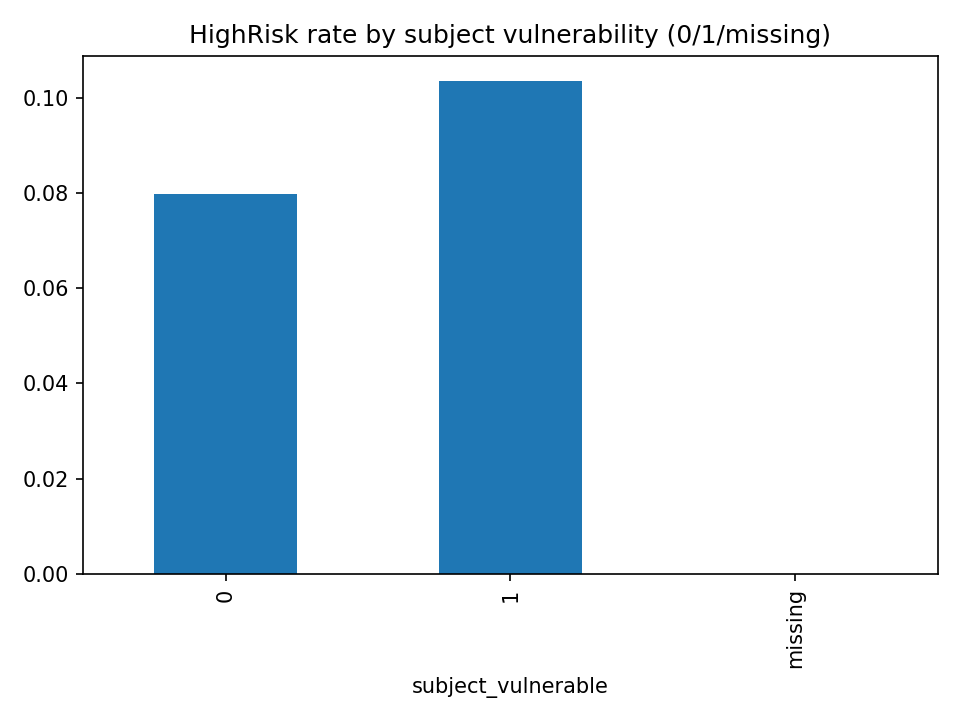
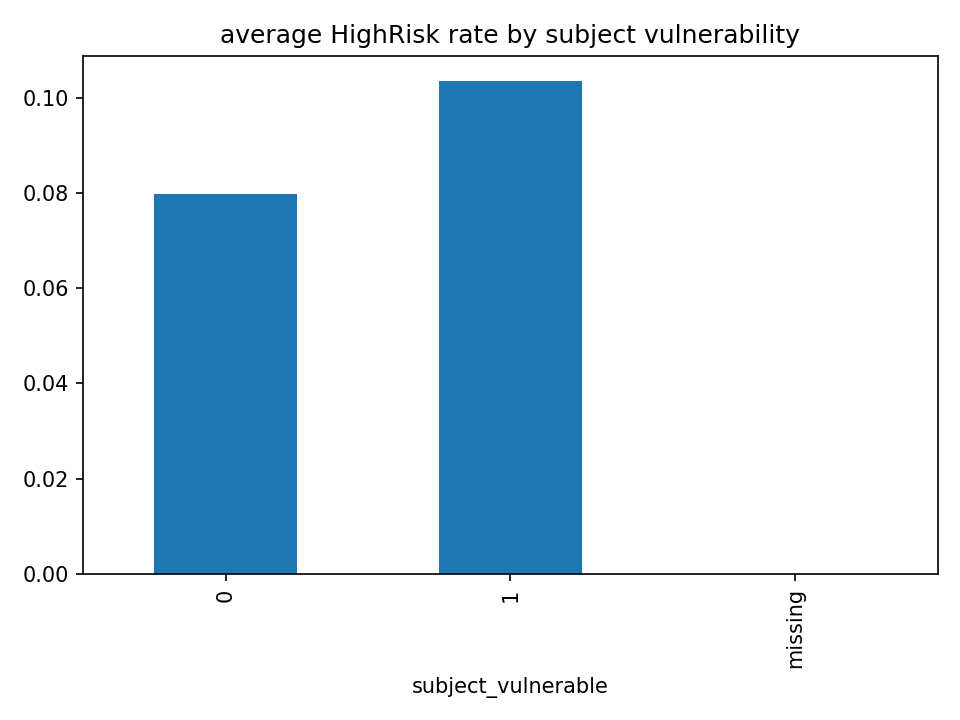
Update: app, pipeline, pyproject

Changed region(s): [[0.1875, 0.0306, 0.875, 0.0611]]

diff --git a/src/eda.py b/src/eda.py
@@ -1,9 +1,8 @@
-# eda_simpler_plots.py
 from pathlib import Path
 import numpy as np
 import pandas as pd
 import matplotlib
-matplotlib.use("Agg")  # s for non-GUI environments
+matplotlib.use("Agg")  #
 import matplotlib.pyplot as plt
 
 
@@ -25,7 +24,7 @@ def map_highrisk_to_binary(target_series):
 
 
 def save_bar(series_or_frame, title, out_path):
-    """Save a very basic bar chart."""
+    """ saving  bar charts"""
     plt.figure()
     series_or_frame.plot(kind="bar")
     plt.title(title)
@@ -36,7 +35,7 @@ def save_bar(series_or_frame, title, out_path):
 
 def run_eda_simpler(dataframe, output_directory = "eda_simple_plots"):
     """
-    Saves PNGs to output_directory and returns the absolute folder path.
+    saves pngs to output_directory and returns the absolute folder path.
     """
     output_path = Path(output_directory)
     output_path.mkdir(parents=True, exist_ok=True)
@@ -96,7 +95,7 @@ def run_eda_simpler(dataframe, output_directory = "eda_simple_plots"):
         ax.set_ylim(0, 1)
         
         plt.tight_layout()
-        plt.savefig(output_path / "02_rate_by_year.png", dpi=150)
+        plt.savefig(output_path / "02HighRisk_rate_by_year.png", dpi=150)
         plt.close()
 
 
@@ -118,11 +117,11 @@ def run_eda_simpler(dataframe, output_directory = "eda_simple_plots"):
         )
         save_bar(
             rate_by_vuln,
-            "HighRisk rate by subject vulnerability (0/1/missing)",
+            "average HighRisk rate by subject vulnerability",
             output_path / "04_rate_by_subject_vulnerability.png"
         )
         
-    # HighRisk by police_force
+    # average HighRisk rate by police_force
     if "police_force" in dataframe.columns:
         force = dataframe["police_force"].astype(str)
         force = force.fillna("missing")
@@ -135,7 +134,7 @@ def run_eda_simpler(dataframe, output_directory = "eda_simple_plots"):
             .mean()
             .reindex(top_forces)
         )
-        save_bar(rate_by_force, "HighRisk rate by police_force (top 10 by volume)",
+        save_bar(rate_by_force, "mean HighRisk rate by police_force (top 10 police forces)",
                  output_path / "05_rate_by_force_top10.png")
 
 
@@ -146,7 +145,7 @@ def run_eda_simpler(dataframe, output_directory = "eda_simple_plots"):
         top_ethnicities = ethnicity.value_counts().head(10).index
         mask = ethnicity.isin(top_ethnicities)
         
-        # Calculate counts instead of rates
+        # calculate counts instead of rates
         count_by_ethnicity = (
             pd.Series(target_binary[mask].values, index=ethnicity[mask])
             .groupby(level=0)
@@ -188,7 +187,7 @@ def run_eda_simpler(dataframe, output_directory = "eda_simple_plots"):
             .mean()
             .reindex(top_ages)
         )
-        save_bar(rate_by_age, "HighRisk rate by age (top 5)",
+        save_bar(rate_by_age, "HighRisk rate by age (top 10)",
                  output_path / "07_rate_by_age_top5.png")
 
     #  4) HighRisk rate by police_force (top 10 by volume)
@@ -212,7 +211,7 @@ def run_eda_simpler(dataframe, output_directory = "eda_simple_plots"):
     if "police_force" in dataframe.columns:
         # Getting the top 5 police forces
         top_forces_counts = dataframe["police_force"].astype(str).value_counts().head(5)
-        # 6) Top 5 police forces by incident count
+        # Top 5 police forces by incident count
         save_bar(top_forces_counts, "top 5 police forces by incident count",
                  output_path / "09_forces_counts.png")
         
@@ -255,7 +254,7 @@ def run_eda_simpler(dataframe, output_directory = "eda_simple_plots"):
     
     
         # 14) HighRisk rate by gender
-    # 14) HighRisk rate by gender
+    # 14) HighRisk count by gender
     if "person_perceived_gender" in dataframe.columns:
         gender = dataframe["person_perceived_gender"].astype(str).str.strip()
         ethnicity = ethnicity.fillna("missing").replace("None", "missing values")
@@ -266,15 +265,15 @@ def run_eda_simpler(dataframe, output_directory = "eda_simple_plots"):
         count_by_gender = (
             pd.Series(target_binary[mask].values, index=gender[mask])
             .groupby(level=0)
-            .sum()  # Changed from .mean() to .sum() for counts
+            .sum()  # sum for counts
             .reindex(top_genders)
         )
         
-        # Creating a custom plot with better visibility
+        # creating a custom plot with better visibility
         plt.figure(figsize=(12, 8))
         bars = count_by_gender.plot(kind="bar", color='crimson', alpha=0.8)
         
-        # Adding value labels on top of bars (now showing counts)
+        # adding value labels on top of bars (now showing counts)
         for i, v in enumerate(count_by_gender.values):
             plt.text(i, v + v*0.01, f'{int(v)}', ha='center', va='bottom', fontweight='bold')
         

diff --git a/src/cf_utils.py b/src/cf_utils.py
@@ -43,7 +43,7 @@ class DiceToModelBridge:
     done shape, order, and dtypes now match training exactly.
     
     """
-    def __init__(self, template_row: pd.Series):
+    def __init__(self, template_row):
         # template_row must contain the full model input columns in the right order
         self.template = template_row
 
@@ -79,7 +79,7 @@ class WrappedForDice:
 # -----------------------
 
 
-def infer_binary_cols(df: pd.DataFrame) -> List[str]:
+def infer_binary_cols(df):
     """
     The Goal of this function
     ----
@@ -93,7 +93,7 @@ def infer_binary_cols(df: pd.DataFrame) -> List[str]:
     """
     assert isinstance(df, pd.DataFrame), " making sure right here that dataframe must be a pandas DataFrame"
 
-    def is_yes_no(values) -> bool:
+    def is_yes_no(values):
         """ This function is a tiny checker that decides if a column is a yes/no flag """
 
         # loop through values
@@ -106,7 +106,7 @@ def infer_binary_cols(df: pd.DataFrame) -> List[str]:
         return len(values) > 0  # at least one non-missing value
     
 
-    def is_zero_one(values) -> bool:
+    def is_zero_one(values):
         """
         this function is a tiny checker that decides if a column is a 0/1 flag
         it returns true if every value is 0 or 1.
@@ -223,7 +223,7 @@ def impute_for_dice(df: pd.DataFrame, binary_cols, cat_cols) -> pd.DataFrame:
 # 
 #  Schema contract from metadata
 # -------------------------------
-def get_expected_raw(pipe, meta: dict) -> List[str]:
+def get_expected_raw(pipe, meta):
     """
     Goal
     -----------
@@ -342,7 +342,7 @@ def compute_counterfactuals(pipe, meta, total_cfs, dice_train_df, query_df, incl
     # DiCE expects a target column
     editable_query_view["highrisk"] = int(wrapped_model_for_dice.predict(editable_query_view.copy())[0])  # <- label the query row so DiCE knows the current class
     
-    # dataset DiCE will see = (train minus immutables) + our query
+    # dataset DiCE will see = (train minus immutables) + the query
     dataset_view_for_dice = pd.concat(
         [safe_training_dataframe.drop(columns=immutable_feature_names, errors="ignore"), editable_query_view],
         ignore_index=True,

diff --git a/src/data_ingestion.py b/src/data_ingestion.py
@@ -1,5 +1,5 @@
 """
-Just small Input and output helpers for the Police Use-of-Force Excel files.
+small Input and output helpers for the Police Use-of-Force Excel files.
 
 No ZenML stuff. No cleaning. We only read sheets and add a year tag when needed.
 """
@@ -17,7 +17,7 @@ def load_sheet(file_path, sheet_name):
         return pd.read_excel(file_path, sheet_name=sheet_name)
     except ValueError as error:  # pandas raises ValueError if the sheet is missing
         raise RuntimeError(
-            f"sheets '{sheet_name}' not found brad in {file_path.name}"
+            f"sheets '{sheet_name}' not found  {file_path.name}"
         ) from error
 
 
@@ -38,10 +38,10 @@ def load_workbook(file_path, year_sheets, other_sheets):
     read the sheets we care about from one workbook.
 
     inputs
-       file_path   : path to the .xlsx
-       year_sheets : mapping like {"2020_21": "2020/21", "2021_22": "2021/22"}
-                      we will read each sheet and insert a 'year' column with the mapped value
-      other_sheets: list of sheet names we want as-is (no extra 'year' tagging here)
+       file_path   - path to the .xlsx
+       year_sheets - mapping like {2020_21: 2020/21, 2021_22: 2021/22}
+                      we will read each sheet and insert a year column with the mapped value
+      other_sheets- list of sheet names we want as-is (no extra year tagging here)
 
     output
       - list of dataframes in the order we read them (keep it predictable)

diff --git a/app/app.py b/app/app.py
@@ -1,14 +1,14 @@
 import sys
 from pathlib import Path
-# making the parent folder importable so i can do `from src ...`
-sys.path.append(str(Path(__file__).resolve().parents[1]))  # allow "src" imports
+# making the parent folder importable so i can import from my source folder
+sys.path.append(str(Path(__file__).resolve().parents[1]))  # allowing my source imports
 
 import json
 import numpy as np
 import pandas as pd
 import streamlit as st
 import joblib
-from src.cf_utils import TauWrapper, compute_counterfactuals  # our model wrapper and CF generator
+from src.cf_utils import TauWrapper, compute_counterfactuals  # contains the model wrapper and CF generator
 
 # inspiration for streamlit template was taken from https://streamlit.io/gallery
 
@@ -69,7 +69,7 @@ with st.sidebar:
 def options_for_column(column_name):
     """
     grab selectbox options from dice_train so I only let users pick values that actually exist.
-    'missing' is our neutral token for NA. super useful so DiCE doesn't explode later.
+    'missing' is the neutral token for NA. super useful so DiCE doesn't explode later.
     """
     if column_name in dice_train.columns:
         # filter out the literal string "missing" so I can re-add it at the front

diff --git a/src/preprocessing.py b/src/preprocessing.py
@@ -11,7 +11,7 @@ def replace_global_na(df):
 
 # ---------- helper for engineering target column ----------
 
-def make_highrisk(row) -> str:
+def make_highrisk(row):
     """return HighRisk if record matches Severe/Moderate rules; else Minor
     - here im making the highrisk column using the injury levels and injury flags
     from whether a person is injured from force or when an officer is injured.
@@ -50,7 +50,7 @@ def add_highrisk_label(df):
 
 def add_subject_vulnerable(df):
     """
-    flag subjects who are (a) under 18, (b) 65 +, or (c) have a recorded
+    flag subjects who are 1) under 18, 2) 65 +, or 3) have a recorded
     mental‑health impact factor.
     produces a binary int8 column subject_vulnerable (binary)
     """

diff --git a/src/combiner.py b/src/combiner.py
@@ -19,9 +19,9 @@ def combine_years(frames):
     assert all(isinstance(df, pd.DataFrame) for df in dfs), "all values must be dataFrames"
 
     # first make the full set of columns across all years (sorted for a stable order)
-    all_cols = sorted({col 
+    all_cols = sorted({column 
                        for df in dfs
-                       for col in df.columns})
+                       for column in df.columns})
 
     # second align each df to that union (reindex adds any missing cols with pd.NA)
     aligned = [df.reindex(columns=all_cols, fill_value=pd.NA) for df in dfs]
